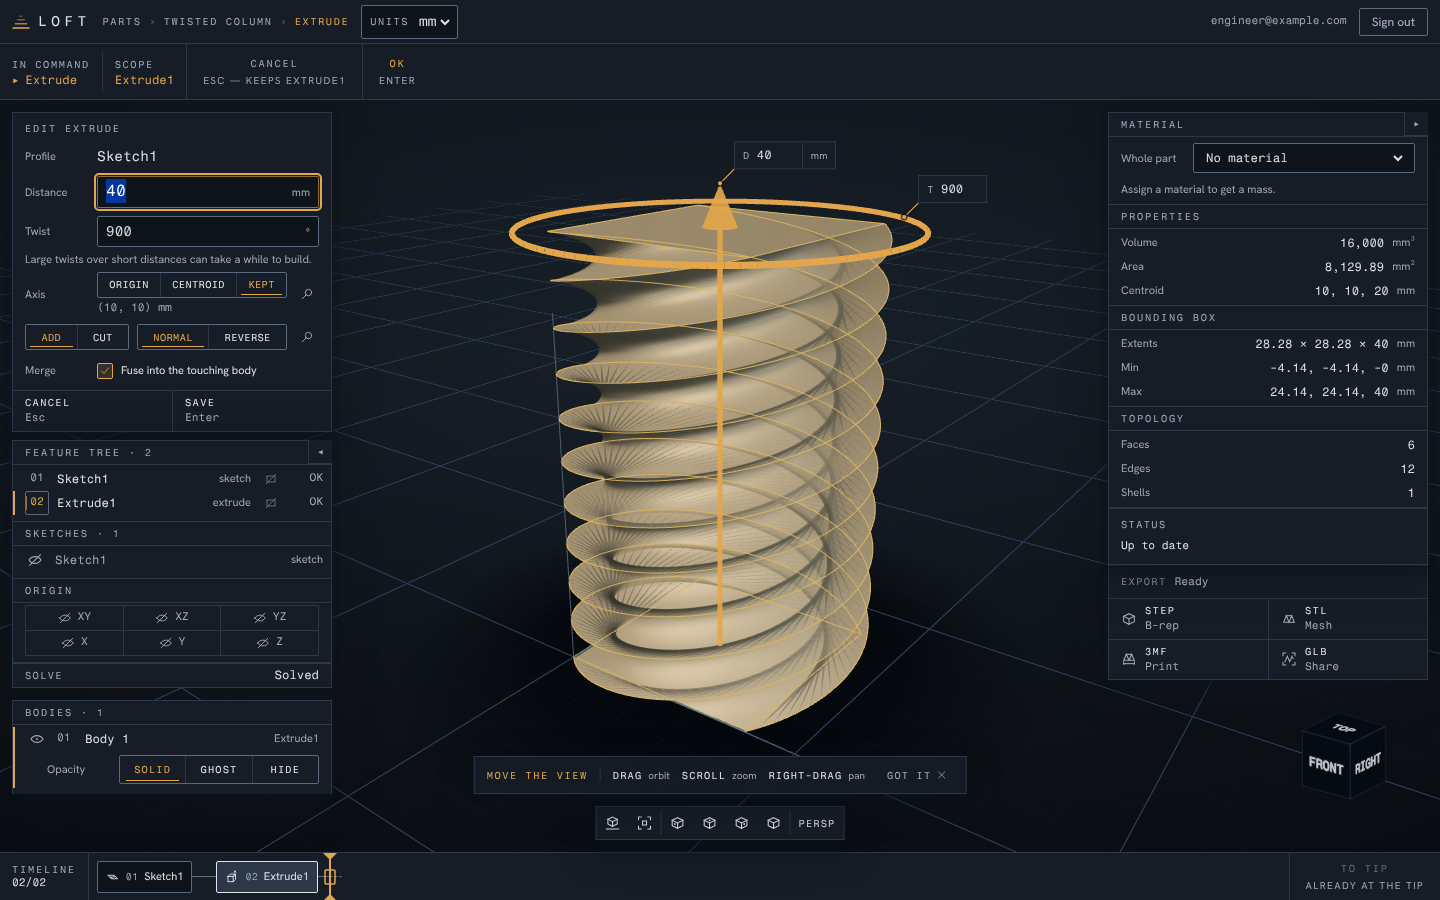
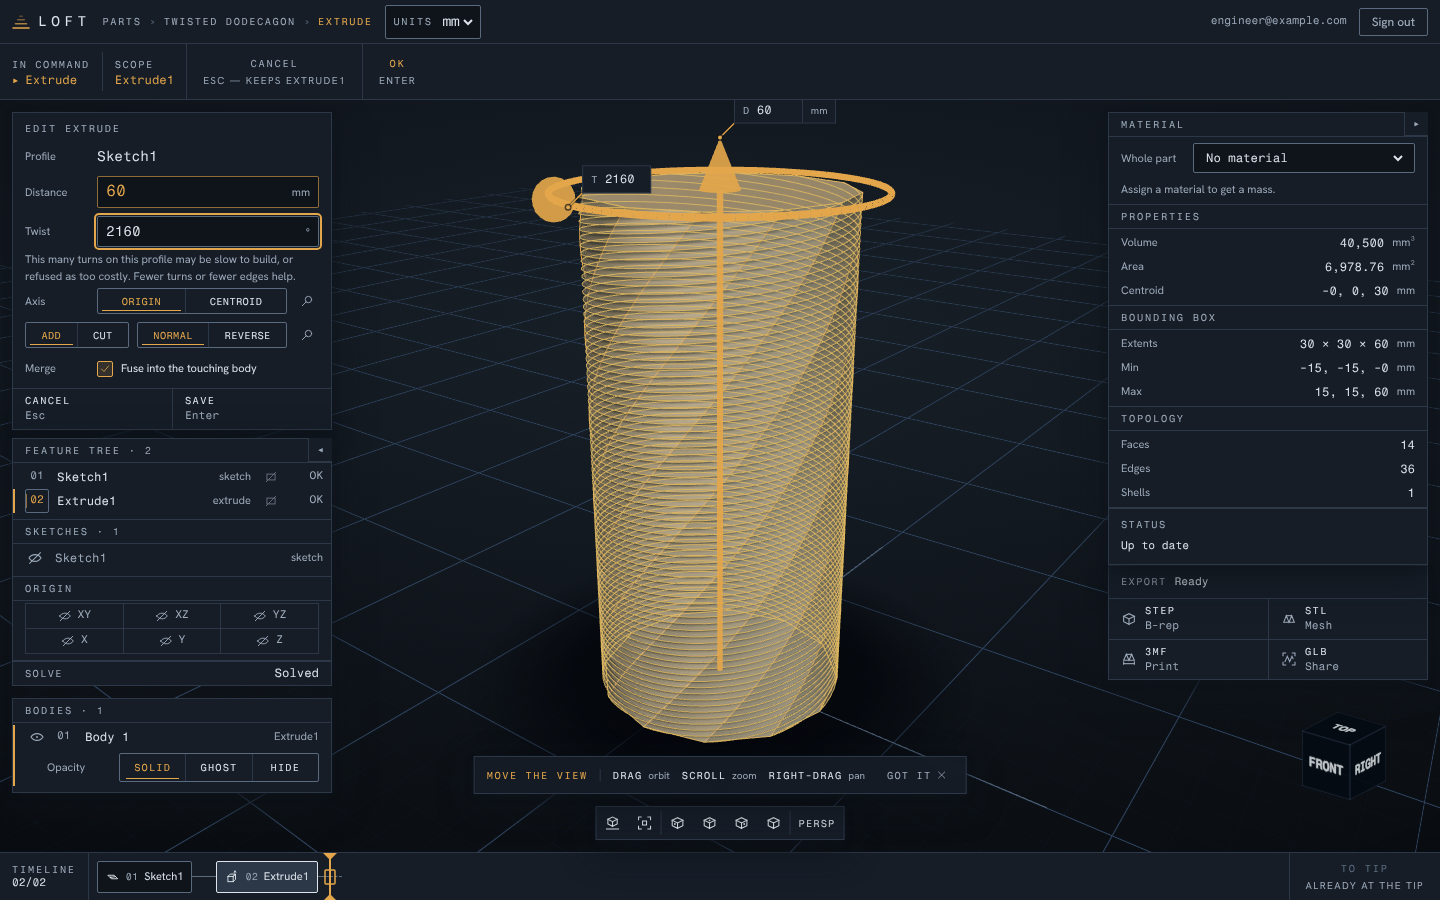
feat(web): the twist cost note keys on the kernel's published bound, now F4 has landed (review S9)
2040c66 keyed a conservative "can take a while" note on two turns because
the kernel's F4 fix had not landed. It landed at 4c49218: bounded flank
meshing, and a pre-sweep guard that REFUSES a twist whose estimated cost
exceeds TWIST_COST_LIMIT_S = 4.5 s, as twist_failed. Per design note §6.1 the
cost is in TURNS and the profile's EDGES, not distance, and the note
publishes a conservative upper bound for the UI.

- twistCostUpperS(twist, entities): that formula, from the profile's line,
  circle/arc and spline counts (construction and points excluded).
- The editor's note shows when the bound passes the limit: "This many turns
  on this profile may be slow to build, or refused as too costly. Fewer turns
  or fewer edges help." ("may": the bound over-states up to 2x; the kernel's
  verdict rules.) PartPage hands the editor each profile's entities.

Unit: the bound crosses 4.5 s where §6.1's own "rough reach" says (square
10.2, hexagon 8.2, 12-gon 5.6, circle 9.0 turns); edges only, sign-symmetric;
TWIST_COST_LIMIT_S held to twist.py through readRepoSource. Editor: a hexagon
is quiet at 8 turns and noted at -8.5; no entities, no note. Negative control:
halving the line T^2 coefficient turns both the crossing and editor cases red.

Screenshots: twisted-extrude-slow-note-after-{1280,1440}.png re-captured (a
12-gon at 6 turns; the earlier pair showed the superseded wording).

Doc-tick: groomer
Claude-Session: https://claude.ai/code/session_0187m1Up5oMSqhzNuRp9tgBJ

diff --git a/apps/web/src/components/ExtrudeEditor.tsx b/apps/web/src/components/ExtrudeEditor.tsx
@@ -35,7 +35,7 @@ import { type KeyboardEvent, useCallback, useEffect } from "react";
 import { useCommandBridge } from "../features/commandActions";
 import { lengthInputValue } from "../units/length";
 import { useDocumentLengthUnit } from "../units/documentUnit";
-import type { ExtrudeParams } from "../api/parts";
+import type { ExtrudeParams, SketchEntity } from "../api/parts";
 import {
   extrudeSubmitBlocker,
   describeExtrudeDirection,
@@ -47,6 +47,8 @@ import {
   extrudeParamsFromForm,
   formatTwistInput,
   parseTwistDeg,
+  TWIST_COST_LIMIT_S,
+  twistCostUpperS,
   twistError,
   twistHand,
   extrudePreviewState,
@@ -110,18 +112,14 @@ export interface ExtrudeEditorProps {
   ) => { x: number; y: number } | null;
   // (The returned object must be STABLE per profile — it feeds the preview
   // effect's dependencies; PartPage memoises one map for the whole tree.)
+  /**
+   * A profile's sketch entities, or null when unknown: what the twist-cost
+   * note (review S9) counts edges from. Same seam as `profileCentroid`.
+   */
+  profileEntities?: (
+    profileFeatureId: string,
+  ) => readonly SketchEntity[] | null;
 }
-
-/**
- * Past this many degrees (two turns) the editor says a save may be slow
- * (review S9). docs/design/twisted-extrude.md §6.1: until bounded tessellation
- * lands, meshing a twist of more than about two turns on a profile wide
- * relative to its distance can occupy a worker for tens of seconds (a 20 mm
- * square over 10 mm at 720 degrees: 14.8 s). The cost is not a function of the
- * twist alone, so the note is worded as "can", keyed on turns only, and
- * blocks nothing. Revisit when the kernel's F4 fix lands.
- */
-const SLOW_TWIST_DEG = 720;
 
 const TWIST_CENTRES: ReadonlyArray<SegmentOption<"origin" | "centroid">> = [
   {
@@ -209,6 +207,7 @@ export function ExtrudeEditor({
   depthOverride = null,
   twistOverride = null,
   profileCentroid,
+  profileEntities,
 }: ExtrudeEditorProps) {
   const unit = useDocumentLengthUnit();
   // The re-seed on retarget and the gauge's write both happen DURING RENDER
@@ -235,6 +234,15 @@ export function ExtrudeEditor({
   );
 
   const centroid = profileCentroid?.(form.profileFeatureId) ?? null;
+  // Review S9, after the kernel's F4 guard landed (4c49218): the kernel now
+  // REFUSES a twist its own cost estimate puts over TWIST_COST_LIMIT_S, and
+  // the cost is in TURNS and the profile's EDGES, not distance (design note
+  // §6.1). The note keys on the published upper bound of that estimate.
+  const entities = profileEntities?.(form.profileFeatureId) ?? null;
+  const twistMayBeRefused =
+    entities !== null &&
+    twistCostUpperS(parseTwistDeg(form.twistInput) ?? 0, entities) >
+      TWIST_COST_LIMIT_S;
 
   // Feed the live ghost: every form/unit change re-projects the preview; the
   // cleanup clears it so closing the editor (unmount) never leaves a ghost.
@@ -435,15 +443,17 @@ export function ExtrudeEditor({
               }
               onFocus={(e) => e.currentTarget.select()}
             />
-            {Math.abs(twistDeg) > SLOW_TWIST_DEG ? (
+            {twistMayBeRefused ? (
               // A heads-up, not a warning: quiet ink, no flag, nothing blocked.
               // Set exactly as a FieldRow note is (px-3, gauge, xs), under the
-              // row it is about.
+              // row it is about. "May", because the bound over-states the
+              // kernel's estimate up to 2x and the kernel's verdict rules.
               <p
                 className="px-3 font-body text-xs text-gauge"
                 data-testid="extrude-twist-slow"
               >
-                Large twists over short distances can take a while to build.
+                This many turns on this profile may be slow to build, or refused
+                as too costly. Fewer turns or fewer edges help.
               </p>
             ) : null}
             {twistDeg !== 0 ? (

diff --git a/apps/web/src/features/extrude.test.ts b/apps/web/src/features/extrude.test.ts
@@ -1,6 +1,10 @@
 import { describe, expect, it } from "vitest";
 
-import type { ExtrudeParams, FeatureResponse } from "../api/parts";
+import type {
+  ExtrudeParams,
+  FeatureResponse,
+  SketchEntity,
+} from "../api/parts";
 import { readRepoSource } from "../test/wireSource";
 import {
   canSubmitExtrude,
@@ -24,6 +28,8 @@ import {
   MAX_TWIST_DEG,
   MIN_TWIST_DEG,
   parseTwistDeg,
+  TWIST_COST_LIMIT_S,
+  twistCostUpperS,
   twistError,
   twistHand,
 } from "./extrude";
@@ -82,6 +88,86 @@ describe("the twist bounds match the contract (review N1)", () => {
     expect(contractTwist()?.description).toContain(
       `below ${MIN_TWIST_DEG.toExponential()} deg`,
     );
+  });
+});
+
+/**
+ * Review S9, after the kernel's F4 cost guard (4c49218): the note keys on the
+ * upper bound design note §6.1 publishes for the UI. The EXPECTED crossings
+ * are the note's own "rough reach" figures, not recomputed from the formula.
+ */
+describe("twistCostUpperS (design note §6.1)", () => {
+  function polygon(n: number): SketchEntity[] {
+    return Array.from({ length: n }, (_, i) => {
+      const a = (i / n) * 2 * Math.PI;
+      const b = ((i + 1) / n) * 2 * Math.PI;
+      return {
+        id: `e${i}`,
+        kind: "line" as const,
+        start: { x: 10 * Math.cos(a), y: 10 * Math.sin(a) },
+        end: { x: 10 * Math.cos(b), y: 10 * Math.sin(b) },
+        construction: false,
+      };
+    });
+  }
+  const circle: SketchEntity[] = [
+    {
+      id: "c",
+      kind: "circle",
+      center: { x: 0, y: 0 },
+      radius: 10,
+      construction: false,
+    },
+  ];
+  const deg = (turns: number) => turns * 360;
+
+  it("passes the kernel's limit where the note says: square 10.2, hexagon 8.2, 12-gon 5.6, circle 9.0 turns", () => {
+    for (const [entities, below, above] of [
+      [polygon(4), 10.1, 10.3],
+      [polygon(6), 8.1, 8.3],
+      [polygon(12), 5.5, 5.7],
+      [circle, 8.9, 9.1],
+    ] as const) {
+      expect(twistCostUpperS(deg(below), entities)).toBeLessThan(
+        TWIST_COST_LIMIT_S,
+      );
+      expect(twistCostUpperS(deg(above), entities)).toBeGreaterThan(
+        TWIST_COST_LIMIT_S,
+      );
+    }
+  });
+
+  it("counts profile edges only, and is signed-twist symmetric", () => {
+    const withConstruction = [
+      ...polygon(4),
+      { ...polygon(1)[0]!, id: "k", construction: true },
+      {
+        id: "p",
+        kind: "point" as const,
+        at: { x: 0, y: 0 },
+        construction: false,
+      },
+    ] as SketchEntity[];
+    expect(twistCostUpperS(1800, withConstruction)).toBeCloseTo(
+      twistCostUpperS(1800, polygon(4)),
+      12,
+    );
+    expect(twistCostUpperS(-1800, polygon(4))).toBe(
+      twistCostUpperS(1800, polygon(4)),
+    );
+  });
+
+  it("TWIST_COST_LIMIT_S is the kernel's own limit", () => {
+    const source = readRepoSource(
+      "services/geometry/src/geometry/kernel/twist.py",
+      {
+        declaredIn:
+          "twistCostUpperS tests in apps/web/src/features/extrude.test.ts",
+        guards: "the kernel's twist cost limit (TWIST_COST_LIMIT_S)",
+      },
+    );
+    const match = /^TWIST_COST_LIMIT_S = ([\d.]+)/m.exec(source);
+    expect(Number(match?.[1])).toBe(TWIST_COST_LIMIT_S);
   });
 });
 

diff --git a/apps/web/src/components/ExtrudeEditor.test.tsx b/apps/web/src/components/ExtrudeEditor.test.tsx
@@ -17,7 +17,7 @@ import { fireEvent, render, screen } from "@testing-library/react";
 import { Profiler } from "react";
 import { describe, expect, it, vi } from "vitest";
 
-import type { ExtrudeParams } from "../api/parts";
+import type { ExtrudeParams, SketchEntity } from "../api/parts";
 import {
   defaultExtrudeForm,
   describeExtrudeDirection,
@@ -53,6 +53,7 @@ function renderEditor(
     profiles?: ProfileOption[];
     initial?: ExtrudeForm;
     profileCentroid?: (id: string) => { x: number; y: number } | null;
+    profileEntities?: (id: string) => readonly SketchEntity[] | null;
   } = {},
 ) {
   const onPreviewChange = overrides.onPreviewChange ?? vi.fn();
@@ -71,6 +72,9 @@ function renderEditor(
         onPreviewChange={onPreviewChange}
         {...(overrides.profileCentroid !== undefined
           ? { profileCentroid: overrides.profileCentroid }
+          : {})}
+        {...(overrides.profileEntities !== undefined
+          ? { profileEntities: overrides.profileEntities }
           : {})}
       />
     </DocumentUnitProvider>,
@@ -527,17 +531,37 @@ describe("ExtrudeEditor — the twist axis says what Save will send", () => {
     );
   });
 
-  it("says, quietly, that a twist past two turns can take a while (review S9)", () => {
-    renderEditor();
+  it("says, quietly, when this many turns on THIS profile may be refused (review S9)", () => {
+    // A hexagon: the kernel's published upper bound passes its 4.5 s limit at
+    // about 8.2 turns (design note §6.1), so 8 turns is quiet and 8.5 is not.
+    // (A square never reaches it inside the +/-3600 the field accepts.)
+    const hexagon: SketchEntity[] = Array.from({ length: 6 }, (_, i) => {
+      const a = (i / 6) * 2 * Math.PI;
+      const b = ((i + 1) / 6) * 2 * Math.PI;
+      return {
+        id: `l${i}`,
+        kind: "line" as const,
+        start: { x: 10 * Math.cos(a), y: 10 * Math.sin(a) },
+        end: { x: 10 * Math.cos(b), y: 10 * Math.sin(b) },
+        construction: false,
+      };
+    });
+    renderEditor({ profileEntities: () => hexagon });
     const twist = screen.getByTestId("extrude-twist");
-    fireEvent.change(twist, { target: { value: "720" } });
+    fireEvent.change(twist, { target: { value: "2880" } });
     expect(screen.queryByTestId("extrude-twist-slow")).toBeNull();
-    fireEvent.change(twist, { target: { value: "721" } });
+    fireEvent.change(twist, { target: { value: "-3060" } });
     expect(screen.getByTestId("extrude-twist-slow")).toHaveTextContent(
-      /can take a while to build/i,
+      /may be slow to build, or refused/i,
     );
-    fireEvent.change(twist, { target: { value: "-800" } });
-    expect(screen.getByTestId("extrude-twist-slow")).toBeVisible();
+  });
+
+  it("says nothing when it cannot count the profile's edges", () => {
+    renderEditor();
+    fireEvent.change(screen.getByTestId("extrude-twist"), {
+      target: { value: "3600" },
+    });
+    expect(screen.queryByTestId("extrude-twist-slow")).toBeNull();
   });
 
   /** A saved extrude whose twist axis is a point a script placed. */

diff --git a/apps/web/src/features/extrude.ts b/apps/web/src/features/extrude.ts
@@ -6,7 +6,12 @@
  */
 import type { LengthUnit } from "@loft/design";
 
-import type { DatumParams, ExtrudeParams, FeatureResponse } from "../api/parts";
+import type {
+  DatumParams,
+  ExtrudeParams,
+  FeatureResponse,
+  SketchEntity,
+} from "../api/parts";
 import { lengthInputValue, parsePositiveLengthMm } from "../units/length";
 import { fieldBlocker } from "./submitBlocker";
 
@@ -99,6 +104,72 @@ export function formatTwistInput(twistDeg: number): string {
  */
 export function storedTwistInput(twistDeg: number): string {
   return String(twistDeg);
+}
+
+/**
+ * The kernel refuses a twist whose own cost estimate exceeds this, in seconds
+ * (`TWIST_COST_LIMIT_S` in services/geometry/.../kernel/twist.py; geometry QA
+ * F4, design note §6.1). Held to that source by a drift guard in the tests.
+ */
+export const TWIST_COST_LIMIT_S = 4.5;
+
+/**
+ * A conservative UPPER BOUND of the kernel's build-cost estimate for a twist
+ * of this profile, in seconds: the formula design note §6.1 publishes for the
+ * UI, from the profile's edge counts alone.
+ *
+ *     upper(T) = T (0.0136 L + 0.0165 C + 0.195 S)
+ *              + T^2 (0.0094 L + 0.0002 S + sum over arcs (0.0002 + 0.0086 theta))
+ *
+ * `T` is turns, `L`/`C`/`S` the line, circle-or-arc and spline edge counts,
+ * `theta` each circle's or arc's angle (2 pi for a circle). It never
+ * under-states the kernel's estimate on the kernel's stress set but can
+ * over-state it about 2x, so a caller may say "may be slow or refused", never
+ * predict the refusal: the kernel's own verdict is the authority.
+ * Construction geometry and points are not edges of the profile.
+ */
+export function twistCostUpperS(
+  twistDeg: number,
+  entities: readonly SketchEntity[],
+): number {
+  const turns = Math.abs(twistDeg) / 360;
+  let linear = 0;
+  let quadratic = 0;
+  for (const entity of entities) {
+    if (entity.construction) continue;
+    switch (entity.kind) {
+      case "point":
+        break;
+      case "line":
+        linear += 0.0136;
+        quadratic += 0.0094;
+        break;
+      case "circle":
+        linear += 0.0165;
+        quadratic += 0.0002 + 0.0086 * 2 * Math.PI;
+        break;
+      case "arc": {
+        const a0 = Math.atan2(
+          entity.start.y - entity.center.y,
+          entity.start.x - entity.center.x,
+        );
+        const a1 = Math.atan2(
+          entity.end.y - entity.center.y,
+          entity.end.x - entity.center.x,
+        );
+        // Counterclockwise from start to end (the wire's arc), in (0, 2 pi].
+        let theta = a1 - a0;
+        while (theta <= 0) theta += 2 * Math.PI;
+        linear += 0.0165;
+        quadratic += 0.0002 + 0.0086 * theta;
+        break;
+      }
+      default:
+        linear += 0.195;
+        quadratic += 0.0002;
+    }
+  }
+  return turns * linear + turns * turns * quadratic;
 }
 
 /**

diff --git a/apps/web/src/routes/PartPage.tsx b/apps/web/src/routes/PartPage.tsx
@@ -1339,6 +1339,12 @@ export function PartPage() {
     (id: string) => profileCentroids.get(id) ?? null,
     [profileCentroids],
   );
+  /** Each solved profile's entities, for the twist-cost note (review S9). */
+  const profileEntities = useCallback(
+    (id: string) =>
+      solved.find((layer) => layer.featureId === id)?.entities ?? null,
+    [solved],
+  );
 
   // Keyboard-first: Escape cascade always; tools, snap, constraint verbs and
   // Delete while drawing. One keyboard, two vocabularies — selection
@@ -5421,6 +5427,7 @@ export function PartPage() {
                         depthOverride={extrudeDepthOverride}
                         twistOverride={extrudeTwistOverride}
                         profileCentroid={profileCentroid}
+                        profileEntities={profileEntities}
                       />
                     ) : editor.kind === "revolve" ? (
                       <RevolveEditor
